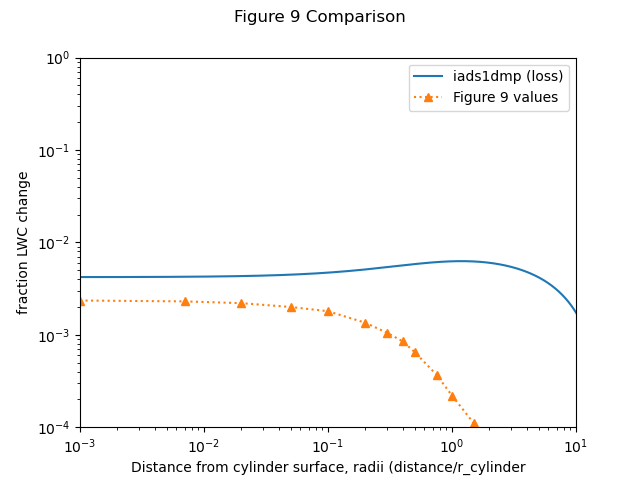
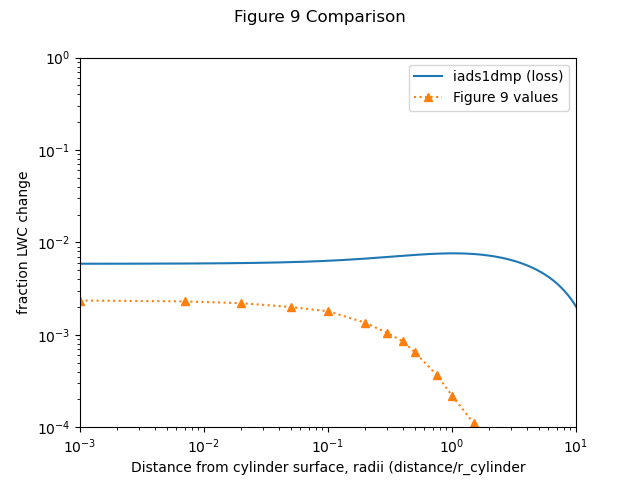
NACA-TN-3024_evaporation.md

Changed region(s): [[0.125, 0.5, 0.9062, 0.6562]]

diff --git a/content/NACA-TN-3024_evaporation.md b/content/NACA-TN-3024_evaporation.md
@@ -1,10 +1,11 @@
 Title: NACA-TN-3024  
 Category: NACA  
-tags: thermodynamics  
+tags: thermodynamics 
+status: draft   
 
 > ###_"evaporation losses are ... very small (less than 1 percent) in the case of smaller obstacles (of icing-rate-measurement-cylinder size)."_  
 
-#"Maximum Evaporation Rates of Water Droplets Approaching Obstacles the Atmosphere under Icing Conditions" [^1]
+#"Maximum Evaporation Rates of Water Droplets Approaching Obstacles the Atmosphere under Icing Conditions" Evaporation calculations [^1]
 
 ![Figure 1. Motional relationships among air-stream, droplet, and obstacle.](images/naca-tn-3024/Figure1.png)  
 
@@ -14,7 +15,11 @@ Less that 1% of drops evaporate approaching an obstacle for most cases.
 ##Key points
 
 1. Equations are detailed for the evaporation of water drops approaching an obstacle.  
-2. Less that 1% of drops evaporate approaching an obstacle for most cases.  
+2. The equations were coded into a python program.  
+3. Less that 1% of drops evaporate approaching an obstacle for most cases.  
+
+[NACA-TN-3024]({filename}NACA-TN-3024.md) was reviewed previously, 
+herein we will concentrate on comparing our own code to the results in NACA-TN-3024.
 
 ##Abstract
 
@@ -82,7 +87,25 @@ mass-transfer rate including, in some instances, radiation effects; and
 size, flight Mach number, and flight ambient air conditions.  
 
 >The unavailability of a suitable high-speed calculator made it
-necessary, however, to restrict in some manner the scope of the calculations.
+necessary, however, to restrict in some manner the scope of the calculations. 
+
+For point (1), we developed compressible flow relationships in 
+["The AEDC 1-Dimensional Multi-Phase code (AEDC1DMP) and the iasd1dmp]({filename}aedci1mp.md).
+The drag coefficient used is a function of Reynolds number, but not Mach. 
+While the flow Mach numbers considered in NACA-TN-3024 included high values (0.75), 
+the relative drop-to-air Mach values were lower (<0.3), so we will consider
+Mach independence to be "good enough". 
+
+For point (2), we will leave out radiation effects. 
+For large drops, the temperature distribution within a drop caused by dynamic changes may be important, 
+but for smaller drops (<100 micrometer) a constant temperature approximation is "good enough". 
+
+For point (3), we wrote our equations to use a general air speed function as an input, 
+so we just need a unique airspeed function for each "obstacle".
+
+And fortunately, "a suitable high-speed calculator" is now widely available, 
+the modern personal computer 
+(although mine is an 8-year-old laptop, which some may not count as modern). 
 
 >Since the subject of droplet evaporation, insofar as aircraft are
 concerned, is of interest chiefly in connection with icing, radiation
@@ -112,71 +135,51 @@ the interior droplet temperature will always lag behind the rising
 surface temperature, and both the mean droplet temperature and the surface 
 temperature will always be less than the local equilibrium (psychrometric) value; 
 all droplet temperatures will rise monotonically. It is
-possible to conclude that both the acual local time rate of evaporation
+possible to conclude that both the actual local time rate of evaporation
 and the actual total loss of liquid will be less than those calculated
 on the basis of psychrometric calculations in the case of stagnation
 streamline droplet motion. It therefore follows that the present quasi-static 
 calculations set upper bounds to the loss rates and total losses
 for motion along stagnation lines.
 
-This is essentially water drop the equilibrium assumption we saw in Hardy [^2].  
+We will also restrict our analysis to the stagnation line. 
+However, we will not use the "quasi static" assumption, and 
+will use the water drop relative speed, mass transfer, and heat transfer 
+developed in ["The AEDC 1-Dimensional Multi-Phase code (AEDC1DMP) and the iasd1dmp]({filename}aedci1mp.md). 
 
-The calculations are rather involved, and so they will not be detailed herein. 
-Readers who have read the preceding reviews in the [Icing Thermodynamics thread]({filename}thermodynamics.md) 
-will be well prepared. 
+For the cylinder case in NACA-TN-3024, I used the airspeed calculation from 
+Langmuir and ["Let's Build a 1D Water Drop Trajectory Simulation"](build_a_1d_drop_motion_simulation.md) . 
 
-The water drop airspeeds relative to the local airspeed were calculated: 
+This is incorporated into the file "naca_tn_3024.py" [^2]. 
 
-![Figure 8.](images/naca-tn-3024/Figure8.png)  
+The Mach values calculated herein are similar, 
+but not identical to the values in NACA-TN-3024 Figure 8. 
+NACA-TN-3024 did not describe how the airspeed values were calculated. 
+Presumably, they would be the same as in Langmuir and Blodgett [^3], which was referenced. 
+The airspeed calculations herein were from Langmuir and Blodgett, 
+but the values are visibly different. 
 
-The resulting evaporation calculations:  
+![](images/naca-tn-3024/naca_tn_3024_mach.png)  
 
-![Figure 9.](images/naca-tn-3024/Figure9.png)  
+The evaporation rates compared to Figure 9 values are similar in magnitude, 
+but not in detail. 
+However, either result meets the "less than 1 percent" LWC change. 
 
-> CONCLUSIONS
-On the basis of a theoretical analysis of rates of loss by evaporation 
-of atmospheric droplets moving along stagnation lines toward
-obstacles (such as wings and icing-rate measurement cylinders), it may
-be concluded that:
->1. Little or no evaporative loss occurs from droplets approaching
-liquid-water-content measurement cylinders (that is, cylinders having
-diameters less than about 15 cm).
->2. Evaporative losses may be as high as several percent in the case
-of small droplets approaching larger obstacles, such as wings, except
-that there is always a possibility that the droplet will never reach the
-airfoil. (In the latter case, it will, of course, evaporate completely
-if it has been approaching along the stagnation line).
->3. Total losses from droplets moving along intake ducts, for example,
-between the inlet entrance and engine screen of a jet engine, will
-usually be of the order of 5 to 10 percent at low temperatures for the
-smaller droplets and a fraction of that for the larger droplets, but may
-be as great as 50 percent for the smaller droplets at ambient temperatures 
-closer to 0C for high degrees of stagnation and moderately long
-(10 ft) ducts.
+![](images/naca-tn-3024/naca_tn_3024_lwc_change.png)  
 
-39.5 inch diameter is rather large for a wing leading edge, 
-so the losses of "several percent" may over-estimate most typical cases. 
-The 3.95 inch diameter is more typical, 
-so I think that the "little or no evaporative loss" would apply for most wings. 
+##Conclusions
 
-In the post-NACA era, most sources assume zero loss due to evaporation of drops approaching an obstacle. 
+NACA-TN-3024 stated that the "quasi-static" calculations set an upper bound:
 
-Reproducing the calculations in python is a non-trivial task, 
-but I am considering a "Let's Build a 1D Water Drop Motion Simulation" project, 
-that would do part of what the AEDC1DMP code mentioned below does.  
+>It therefore follows that the present quasi-static 
+calculations set upper bounds to the loss rates and total losses
+for motion along stagnation lines.
 
-<!--
-The results of NACA-TN-3024 are compared to calculations in python in 
-["Maximum Evaporation Rates of Water Droplets Approaching Obstacles the Atmosphere under Icing Conditions" Evaporation calculations]({filename}NACA-TN-3024_evaporation.md).  
--->
+However, it is not clear that that is the case. 
 
-##Related
+The conclusion of "less than 1 percent" LWC change due to evaporation is supported. 
 
-A distant descendant of NACA-TN-3024 (although NACA-TN-3024 is not cited by it) is the AEDC1DMP 
-(Arnold Engineering Development Center 1 Dimensional Multi-Phase) code described in [^3].
-
-I have used the code but I do not have a copy of it, and I do not know where to find it online. 
-[When I used it years ago, one had to "know someone" to get the code.] 
+In the post-NACA era, most sources assume (often tacitly) zero loss due to evaporation of drops approaching an obstacle. 
 
 ##Citations
 
@@ -210,9 +213,9 @@ NACA-TN-3024 is cited 6 times in the literature [^5].
 
 [^1]: 
 Lowell, Herman H.: Maximum Evaporation Rates of Water Droplets Approaching Obstacles the Atmosphere under Icing Conditions. NACA-TN-3024, 1953  
-[^2]: Hardy, J. K.: Kinetic Temperature of Wet Surfaces A Method of Calculating the Amount of Alcohol Required to Prevent Ice, and the Derivation of the Psychrometric Equation. NACA-ARR-5G13, 1945  
-[^3]: 
-Schulz, R. J.: Second Report for Research and Modeling of Water Particles in Adverse Weather Simulation Facilities. TASK REPORT 97-03, AEDC, July, 1998, https://apps.dtic.mil/sti/pdfs/ADA364922.pdf  
+[^2]:
+Langmuir, Irving, and Blodgett, Katherine B.: "Mathematical Investigation of Water Droplet Trajectories". Report. No. RL-224, January 1945, in "The Collected Works of Irving Langmuir", Vol. 10, 1961. Note: Neither Langmuir nor Bodgett are specifically credited in this publication.
+[^3]: [https://github.com/icinganalysis/icinganalysis.github.io](https://github.com/icinganalysis/icinganalysis.github.io)  
 [^4]: 
 [NACA Icing Publications Database]({filename}naca icing publications database.md)  
 [^5]: 

diff --git a/content/aedc1dmp.md b/content/aedc1dmp.md
@@ -125,7 +125,14 @@ but it did have analysis results for comparison.
 Measuring water drops temperatures in an icing wind tunnel is quite challenging,
 and is an area still undergoing development. 
 
-We will call this "good enough" to proceed. 
+The AEDC1DMP code does many things 
+(such as handling a drop size distribution, and predicting drop freeze out rates) 
+that the iads1dmp does not. 
+However, the iads1dmp does give similar results for water drop relative airspeed and 
+heat and mass transfer rates for the single drop size cases compared herein. 
+
+We will call this "good enough" to proceed to our next step,
+comparing calculated water drop evaporation rates to those in NACA-TN-3024. 
 
 ##Notes:
 
